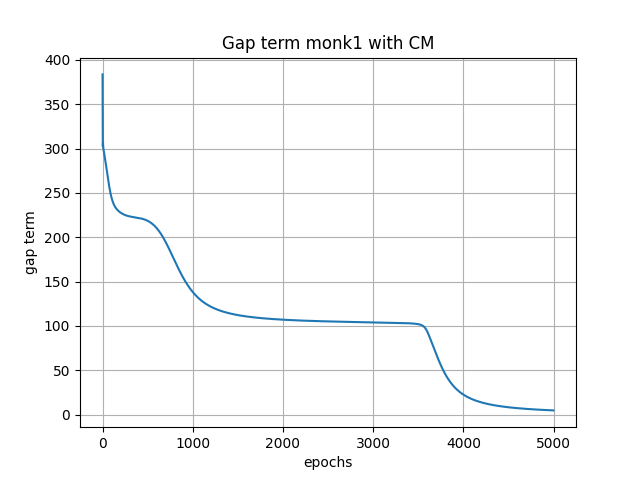
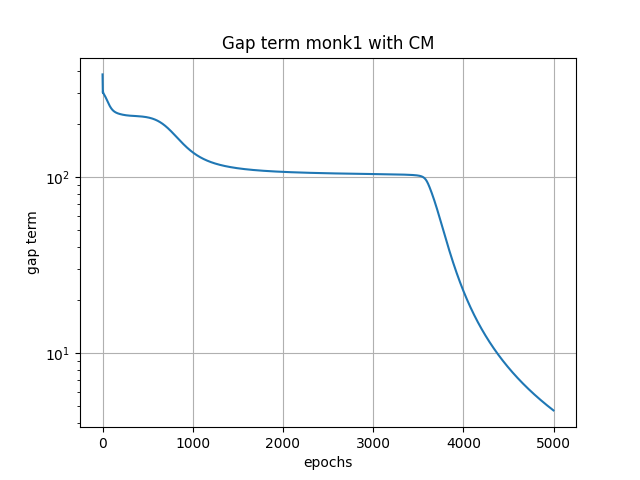
added abs error and y_scale

diff --git a/src/NN/Network.py b/src/NN/Network.py
@@ -458,7 +458,7 @@ class Network(BaseEstimator, metaclass=ABCMeta):
                     self.f_star = loss_test
 
             if f_star_set:
-                current_gap = (loss_test - f_star_set) / f_star_set
+                current_gap = (loss_test - f_star_set)
                 self.gap.append(current_gap)
             self.val_loss.append(loss_test)
             self.val_scores.append(self.scoring(truth_test, preds_test))

diff --git a/src/NN/testNET.py b/src/NN/testNET.py
@@ -102,7 +102,7 @@ params = {
         'Adam': {
             'batch_size': 10,
             'epochs': 5000,
-            'eps': 1e-6,
+            'eps': 1e-7,
             'eta': 0.1,
             'lmbda': 0,
             'optimizer': "Adam",

diff --git a/src/utils.py b/src/utils.py
@@ -174,6 +174,7 @@ def plot_gap(gap, dataset, solver):
     ax.plot(epochs, gap)
 
     ax.set(xlabel='epochs', ylabel='gap term',
+            yscale='log',
            title='Gap term '+dataset+' with '+solver)
     ax.grid()
 
